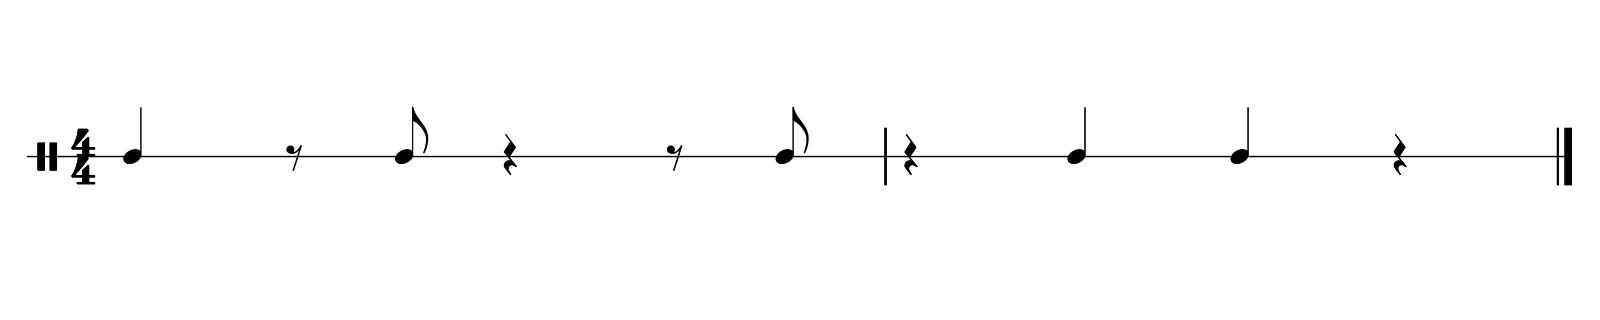
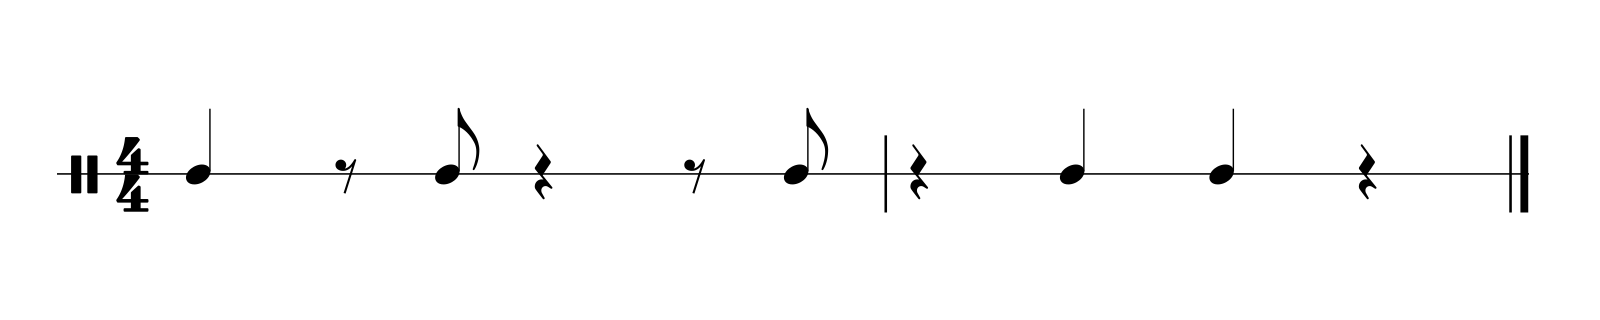
Cancel background tempo prefetch on same-piece tempo change; lead with Flip Swing; swap in draft clave notation strip
- changeTempo() now cancels currentPrefetchTracker the same way switchMosaic()
  already did, fixing a bandwidth-contention bug confirmed via HAR capture
  (a Flip Swing 50% prefetch and a manual 75% tap ran concurrently for 6-8s).
- MOSAIC_ORDER and the default landing piece are now Flip Swing, Abakua, Congo.
- abakua_notation_strip_1.png replaced with a draft clave rhythm notation image.

Changed region(s): [[0.0, 0.3438, 1.0, 0.6875]]

diff --git a/mosaic_webcodecs.html b/mosaic_webcodecs.html
@@ -391,12 +391,12 @@ const MOSAICS={
     stemFiles:['https://pub-ec95ace9fd674c938cb3ca372a1f8c5a.r2.dev/01_bass_flipswing.aac','https://pub-ec95ace9fd674c938cb3ca372a1f8c5a.r2.dev/02_coro1_flipswing.aac','https://pub-ec95ace9fd674c938cb3ca372a1f8c5a.r2.dev/03_coro2_flipswing.aac','https://pub-ec95ace9fd674c938cb3ca372a1f8c5a.r2.dev/04_repenique_flipswing.aac','https://pub-ec95ace9fd674c938cb3ca372a1f8c5a.r2.dev/05_guitar1_flipswing.aac','https://pub-ec95ace9fd674c938cb3ca372a1f8c5a.r2.dev/06_guitar2_flipswing.aac','https://pub-ec95ace9fd674c938cb3ca372a1f8c5a.r2.dev/07_kit_flipswing.aac']
   }
 };
-const MOSAIC_ORDER=['abakua','congo','flipswing'];
+const MOSAIC_ORDER=['flipswing','abakua','congo'];
 const TEMPO_PRESETS=[50,75,100]; // 25% dropped for now to reduce scope — can add back later
 function videoSourcesFor(c){return {100:c.videoBase+'100.mp4',75:c.videoBase+'75.mp4',50:c.videoBase+'50.mp4'}}
 
-let mosaicId=(new URLSearchParams(location.search).get('mosaic')||'abakua').toLowerCase();
-if(!MOSAICS[mosaicId])mosaicId='abakua';
+let mosaicId=(new URLSearchParams(location.search).get('mosaic')||'flipswing').toLowerCase();
+if(!MOSAICS[mosaicId])mosaicId='flipswing';
 let cfg=MOSAICS[mosaicId];
 // All tiles are separate Web Audio stems (sample-accurate, gapless native looping).
 // This part is UNCHANGED from the previous architecture — it was already proven
@@ -1633,6 +1633,16 @@ async function changeTempo(percent){
   percent=+percent;if(!TEMPO_PRESETS.includes(percent)||percent===tempoPercent||bankBusy)return;
   if(!prepared){tempoPercent=percent;updateTempoUI();badge.textContent='Ready to start';setStatus(percent+'% selected. Tap Play to prepare and start.');return;}
   bankBusy=true;tempoButtons.querySelectorAll('button').forEach(b=>b.disabled=true);
+  // Free up whatever bandwidth a background prefetch is still using for some
+  // OTHER tempo of THIS SAME piece (Aug 29 2026) — switchMosaic() already did
+  // this for piece switches (see currentPrefetchTracker's own comment for the
+  // HAR evidence), but a same-piece tempo tap fell through this gap: a HAR
+  // trace of Flip Swing 50%->75% showed the 50% prefetch fetch and the 75%
+  // switch fetch running concurrently for ~6-7s, splitting bandwidth, until
+  // the stale request was eventually aborted by some later, unrelated piece
+  // switch. The user's own tap should always win the connection immediately,
+  // regardless of whether it happens to also be a piece switch.
+  if(currentPrefetchTracker){currentPrefetchTracker.cancel(new Error('Tempo changed'));currentPrefetchTracker=null;}
   const myGen=++loadGeneration;
   const tracker=playBtnLoadingStart(cfg.label+' '+percent+'% (switch)');
   currentLoad=tracker;
